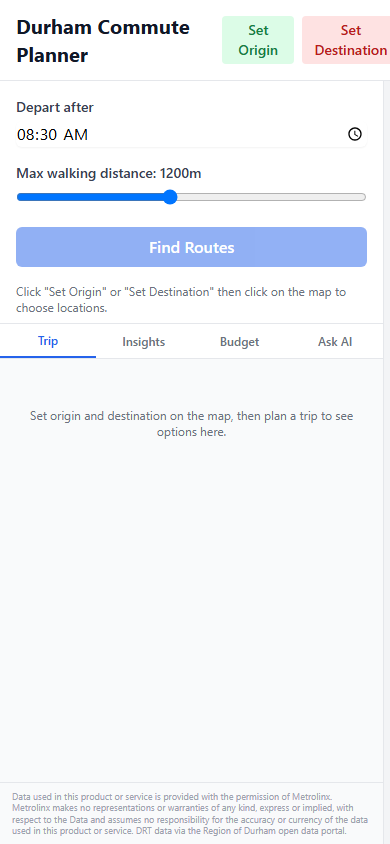
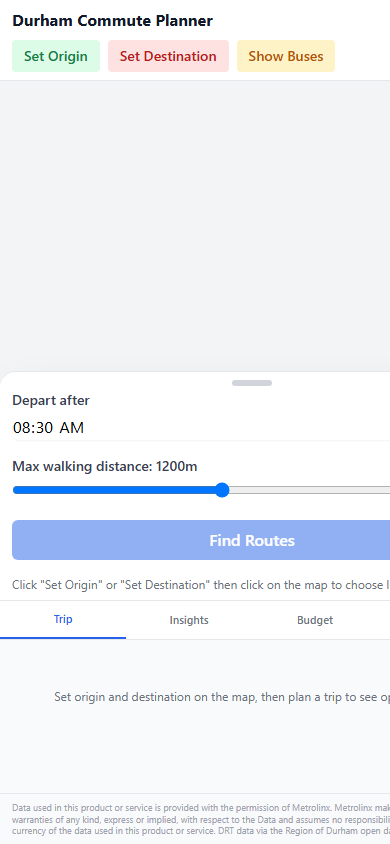
fix: mobile tab bar fit + attribution text wrap

diff --git a/frontend/src/app/page.jsx b/frontend/src/app/page.jsx
@@ -337,7 +337,7 @@ export default function HomePage() {
   const plannerContent = (
     <>
       {/* Tab bar */}
-      <div className="flex border-b bg-white text-[11px] md:text-xs font-medium sticky top-0 z-10 overflow-x-auto">
+      <div className="flex border-b bg-white text-[11px] md:text-xs font-medium sticky top-0 z-10">
         {[
           ["trip", "Trip"],
           ["insights", "Insights"],
@@ -347,7 +347,7 @@ export default function HomePage() {
           <button
             key={id}
             onClick={() => setActiveTab(id)}
-            className={`flex-1 py-2.5 px-1 whitespace-nowrap ${
+            className={`flex-1 min-w-0 py-2.5 px-0.5 text-center ${
               activeTab === id
                 ? "text-blue-600 border-b-2 border-blue-600"
                 : "text-gray-500 hover:text-gray-700"
@@ -439,13 +439,12 @@ export default function HomePage() {
       </div>
 
       {/* Attribution required by Metrolinx Access and Use Agreement */}
-      <div className="text-[9px] text-gray-400 px-3 py-2 border-t leading-tight">
-        Data used in this product or service is provided with the
-        permission of Metrolinx. Metrolinx makes no representations or
-        warranties of any kind, express or implied, with respect to the
-        Data and assumes no responsibility for the accuracy or currency
-        of the data used in this product or service. DRT data via the
-        Region of Durham open data portal.
+      <div className="text-[9px] text-gray-400 px-3 py-2 border-t leading-tight break-words">
+        Data used in this product or service is provided with the permission
+        of Metrolinx. Metrolinx makes no representations or warranties of any
+        kind, express or implied, and assumes no responsibility for the
+        accuracy or currency of the data. DRT data via the Region of Durham
+        open data portal.
       </div>
     </>
   );
